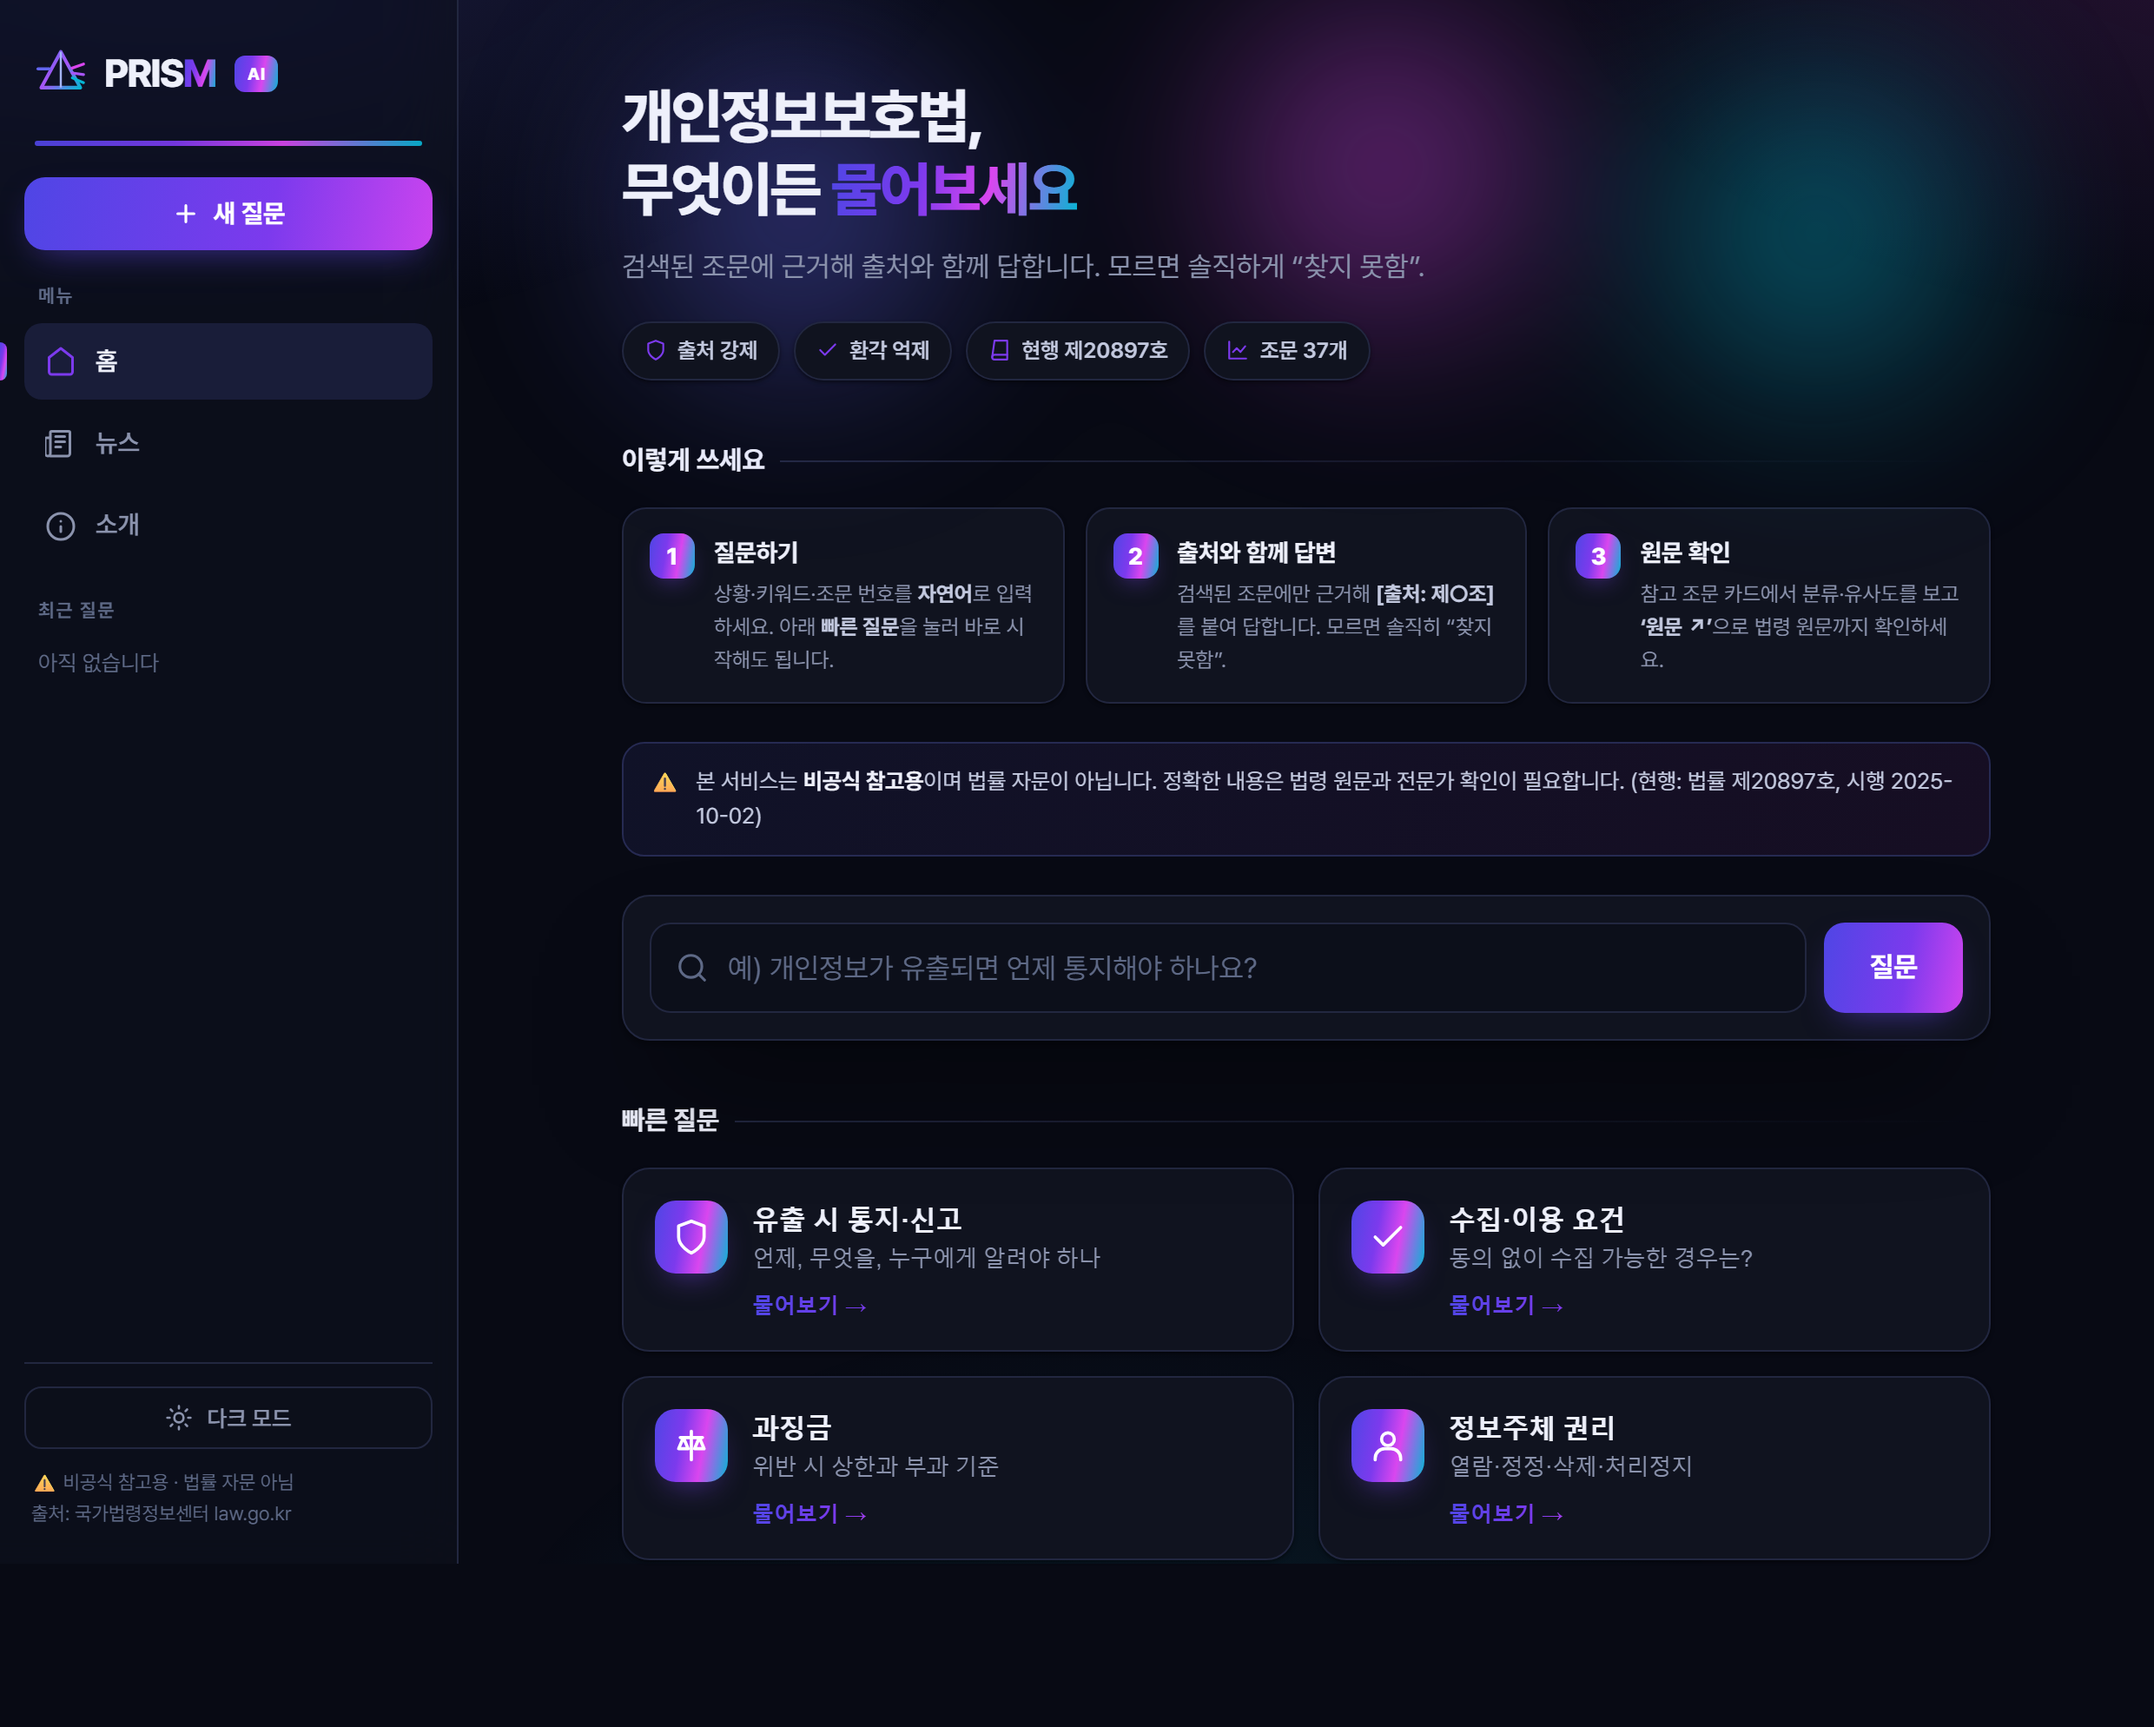
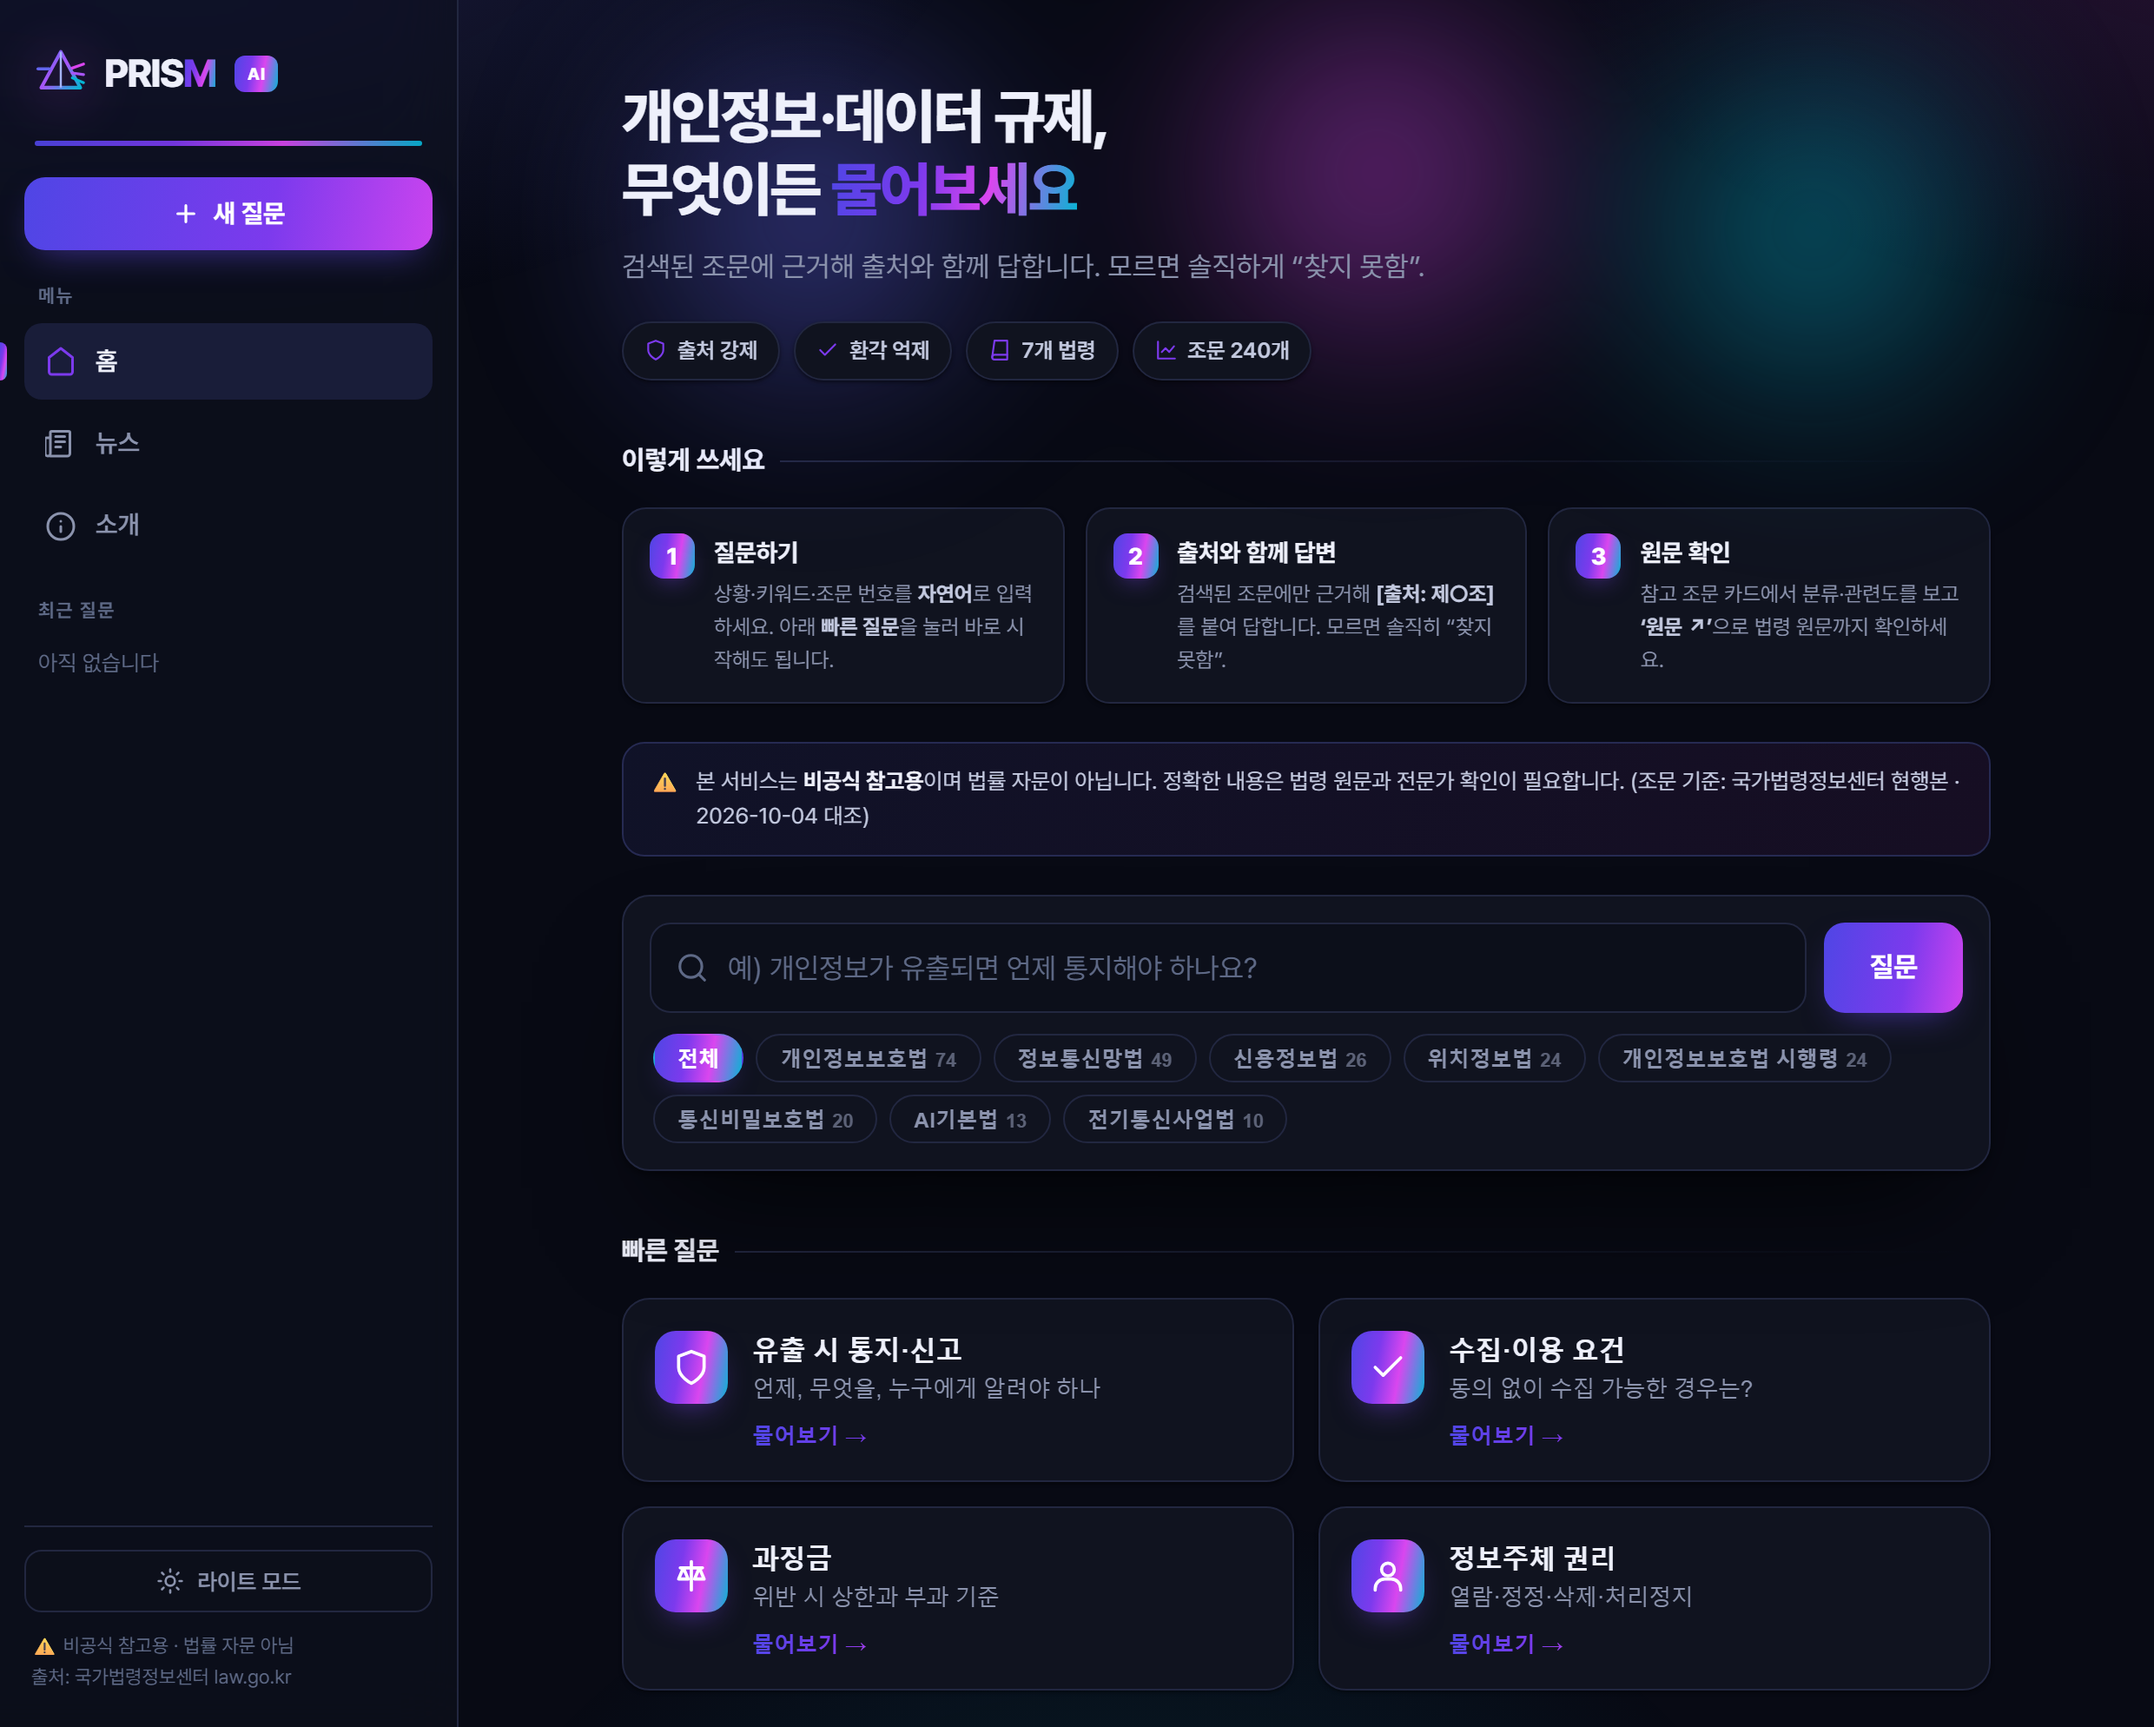
docs: 홈 스크린샷을 현재 화면으로 교체 + 숫자 칩 간격 수정
README의 홈 스크린샷이 단일 법령 시절 화면("조문 37개", "현행 제20897호")이었다.
현재 화면(7개 법령·240조문·법령 필터·대조일 표시)으로 라이트·다크 모두 다시 찍었다.
숫자를 인덱스에서 채우도록 바꾸면서 칩 안에서 숫자와 글자가 벌어지던 것도 고쳤다.
답변 화면 스크린샷은 LLM 답변이 필요해 그대로 두었다.

diff --git a/frontend/index.html b/frontend/index.html
@@ -329,8 +329,8 @@
             <div class="props">
               <span class="chip"><svg viewBox="0 0 24 24" fill="none" stroke="currentColor" stroke-width="2" stroke-linecap="round" stroke-linejoin="round"><path d="M12 22s8-4 8-10V5l-8-3-8 3v7c0 6 8 10 8 10z"/></svg>출처 강제</span>
               <span class="chip"><svg viewBox="0 0 24 24" fill="none" stroke="currentColor" stroke-width="2" stroke-linecap="round" stroke-linejoin="round"><path d="M20 6 9 17l-5-5"/></svg>환각 억제</span>
-              <span class="chip"><svg viewBox="0 0 24 24" fill="none" stroke="currentColor" stroke-width="2" stroke-linecap="round" stroke-linejoin="round"><path d="M4 19.5A2.5 2.5 0 0 1 6.5 17H20"/><path d="M6.5 2H20v20H6.5A2.5 2.5 0 0 1 4 19.5z"/></svg><span data-stat="laws">7</span>개 법령</span>
-              <span class="chip"><svg viewBox="0 0 24 24" fill="none" stroke="currentColor" stroke-width="2" stroke-linecap="round" stroke-linejoin="round"><path d="M3 3v18h18"/><path d="M7 14l4-4 4 4 5-6"/></svg>조문 <span data-stat="arts">240</span>개</span>
+              <span class="chip"><svg viewBox="0 0 24 24" fill="none" stroke="currentColor" stroke-width="2" stroke-linecap="round" stroke-linejoin="round"><path d="M4 19.5A2.5 2.5 0 0 1 6.5 17H20"/><path d="M6.5 2H20v20H6.5A2.5 2.5 0 0 1 4 19.5z"/></svg><span><span data-stat="laws">7</span>개 법령</span></span>
+              <span class="chip"><svg viewBox="0 0 24 24" fill="none" stroke="currentColor" stroke-width="2" stroke-linecap="round" stroke-linejoin="round"><path d="M3 3v18h18"/><path d="M7 14l4-4 4 4 5-6"/></svg><span>조문 <span data-stat="arts">240</span>개</span></span>
             </div>
           </div>
 
